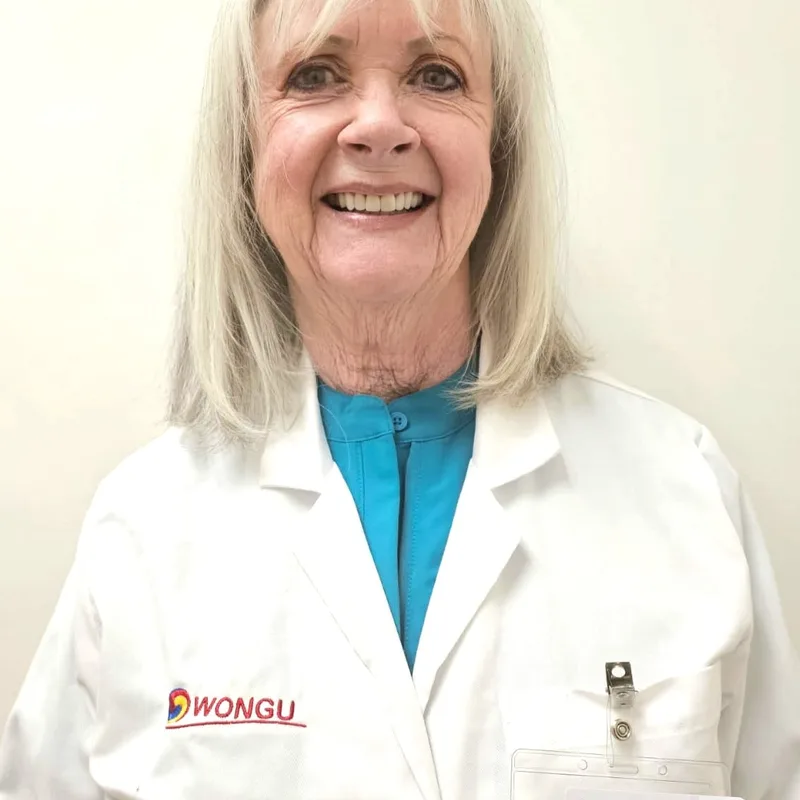
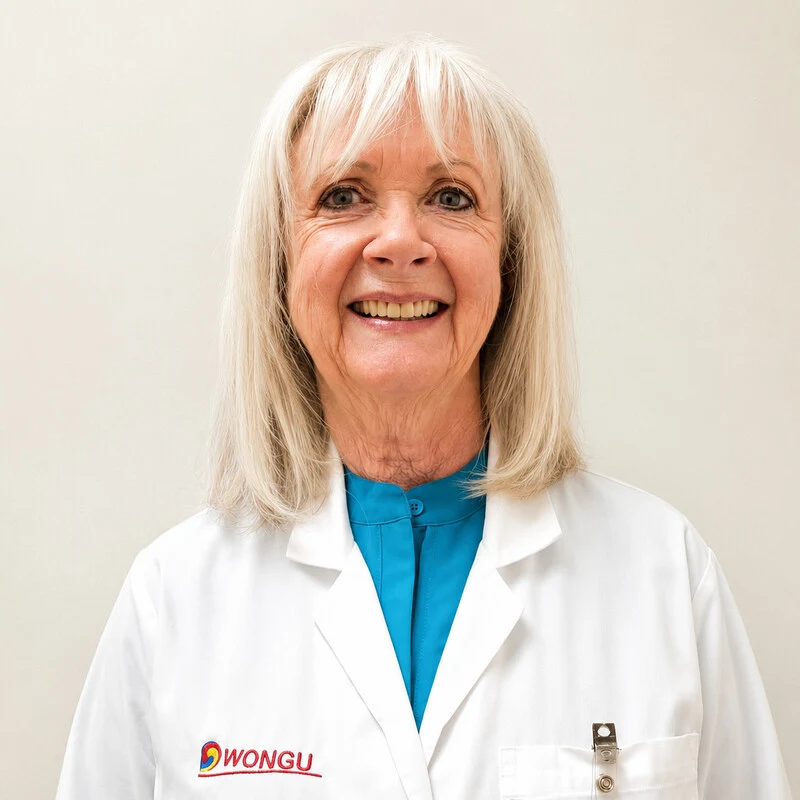
Refresh Joyce and Brittany headshots, fix intern role labels
Re-crop Joyce and Brittany's headshots from cleaned-up source photos for
better framing. Change "Graduate Intern" to "Senior Intern" and update
bios to reflect that interns are finishing their final year, not already
graduated.

diff --git a/student-clinic.html b/student-clinic.html
@@ -101,9 +101,9 @@
   <section class="section section-cream">
     <div class="container">
       <div class="section-header">
-        <span class="section-label">Graduate Interns</span>
+        <span class="section-label">Senior Interns</span>
         <h2>Meet the Student Clinic Team</h2>
-        <p class="section-subtitle">Graduate interns provide care under licensed OMD supervision, with extra time for intake, questions, and treatment planning.</p>
+        <p class="section-subtitle">Our senior interns, finishing up their final year of clinical training, provide care under licensed OMD supervision, with extra time for intake, questions, and treatment planning.</p>
       </div>
       <div class="student-intern-grid">
         <article class="student-intern-card">
@@ -111,48 +111,48 @@
             <img src="images/intern-francisca.webp" width="800" height="800" alt="Wongu student intern Franica Mangione at the student clinic" class="staff-headshot" loading="lazy" decoding="async">
           </div>
           <h3>Franica Mangione</h3>
-          <p class="team-card-role">Graduate Intern</p>
-          <p class="team-card-bio">A 4th-year graduate intern at Wongu University, Franica brings a thorough, caring approach to every session. She is passionate about helping patients feel heard, supported, and cared for through traditional Oriental medicine.</p>
+          <p class="team-card-role">Senior Intern</p>
+          <p class="team-card-bio">A 4th-year intern at Wongu University finishing up her clinical training, Franica brings a thorough, caring approach to every session. She is passionate about helping patients feel heard, supported, and cared for through traditional Oriental medicine.</p>
         </article>
         <article class="student-intern-card">
           <div class="intern-photo">
             <img src="images/intern-tchelle.webp" width="800" height="800" alt="Wongu student intern Tichelle Harris at the student clinic" class="staff-headshot" loading="lazy" decoding="async">
           </div>
           <h3>Tichelle Harris</h3>
-          <p class="team-card-role">Graduate Intern</p>
-          <p class="team-card-bio">Tichelle is a dedicated graduate intern committed to patient-centered care. She brings warmth and attentiveness to each treatment, focusing on helping patients achieve lasting wellness through traditional Oriental medicine.</p>
+          <p class="team-card-role">Senior Intern</p>
+          <p class="team-card-bio">Tichelle is a dedicated intern in her final year at Wongu University, committed to patient-centered care. She brings warmth and attentiveness to each treatment, focusing on helping patients achieve lasting wellness through traditional Oriental medicine.</p>
         </article>
         <article class="student-intern-card">
           <div class="intern-photo">
-            <img src="images/intern-joyce.webp" width="800" height="800" alt="Wongu student intern Joyce White at the student clinic" class="staff-headshot" style="transform:scale(1.2) translateY(-11%)" loading="lazy" decoding="async">
+            <img src="images/intern-joyce.webp" width="800" height="800" alt="Wongu student intern Joyce White at the student clinic" class="staff-headshot" loading="lazy" decoding="async">
           </div>
           <h3>Joyce White</h3>
-          <p class="team-card-role">Graduate Intern</p>
-          <p class="team-card-bio">Joyce is a graduate intern at Wongu University who brings a calm, attentive presence to patient visits. She is committed to thoughtful care, clear communication, and helping patients feel comfortable throughout treatment.</p>
+          <p class="team-card-role">Senior Intern</p>
+          <p class="team-card-bio">Joyce is finishing up her final year at Wongu University and brings a calm, attentive presence to patient visits. She is committed to thoughtful care, clear communication, and helping patients feel comfortable throughout treatment.</p>
         </article>
         <article class="student-intern-card">
           <div class="intern-photo">
             <img src="images/intern-bria.jpg" width="800" height="800" alt="Wongu student intern Bria Harmon at the student clinic" class="staff-headshot" loading="lazy" decoding="async">
           </div>
           <h3>Bria Harmon</h3>
-          <p class="team-card-role">Graduate Intern</p>
-          <p class="team-card-bio">Bria is a graduate intern at Wongu University who brings warmth and genuine care to every patient interaction. She is dedicated to thorough, attentive treatment grounded in traditional Oriental medicine.</p>
+          <p class="team-card-role">Senior Intern</p>
+          <p class="team-card-bio">Bria is finishing up her final year at Wongu University and brings warmth and genuine care to every patient interaction. She is dedicated to thorough, attentive treatment grounded in traditional Oriental medicine.</p>
         </article>
         <article class="student-intern-card">
           <div class="intern-photo">
             <img src="images/intern-brittany.jpg" width="800" height="800" alt="Wongu student intern Brittany Testa at the student clinic" class="staff-headshot" loading="lazy" decoding="async">
           </div>
           <h3>Brittany Testa</h3>
-          <p class="team-card-role">Graduate Intern</p>
-          <p class="team-card-bio">Brittany is a graduate intern committed to patient-centered care. She brings a thoughtful, detail-oriented approach to each session, helping patients feel supported throughout their treatment.</p>
+          <p class="team-card-role">Senior Intern</p>
+          <p class="team-card-bio">Brittany is finishing up her final year at Wongu University, committed to patient-centered care. She brings a thoughtful, detail-oriented approach to each session, helping patients feel supported throughout their treatment.</p>
         </article>
         <article class="student-intern-card">
           <div class="intern-photo">
             <img src="images/intern-roman.jpg" width="800" height="800" alt="Wongu student intern Roman Gramarye at the student clinic" class="staff-headshot" loading="lazy" decoding="async">
           </div>
           <h3>Roman Gramarye</h3>
-          <p class="team-card-role">Graduate Intern</p>
-          <p class="team-card-bio">Roman is a graduate intern at Wongu University who approaches patient care with focus and professionalism. He is dedicated to clear communication and helping patients achieve lasting wellness.</p>
+          <p class="team-card-role">Senior Intern</p>
+          <p class="team-card-bio">Roman is finishing up his final year at Wongu University and approaches patient care with focus and professionalism. He is dedicated to clear communication and helping patients achieve lasting wellness.</p>
         </article>
       </div>
     </div>
